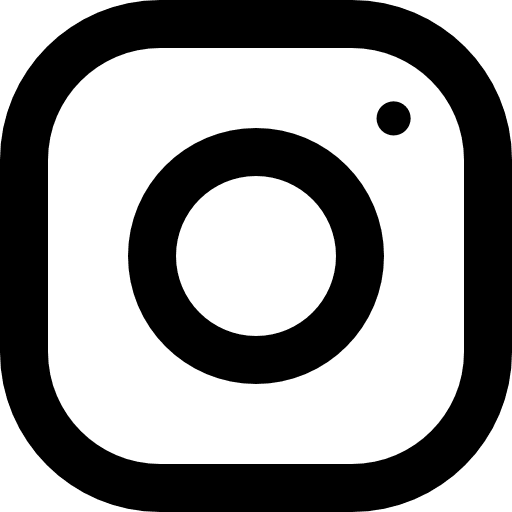
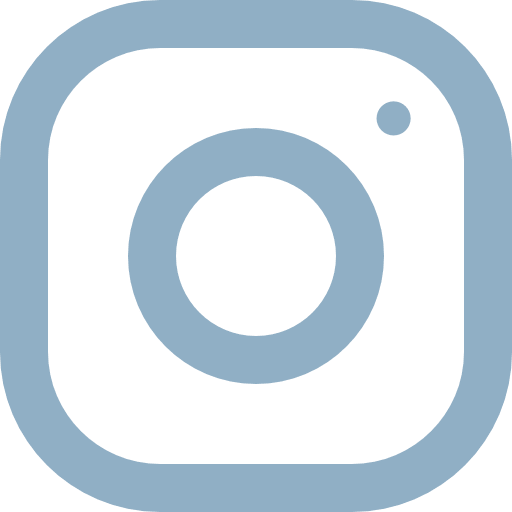
update

diff --git a/index.html b/index.html
@@ -1,15 +1,23 @@
 <!DOCTYPE html>
 
-<html lang='fr'>
+<html lang='fr' xmlns:og="http://ogp.me/ns#">
 
     <head>
         <meta charset="utf-8">
         <meta name="viewport" content="width=device-width, initial-scale=1">
 
-        <link rel="shortcut icon" type="image/png" href="images/.png"/>
+        <link rel="shortcut icon" type="image/png" href="images/start-up.png"/>
         <link rel="stylesheet" href="https://cdnjs.cloudflare.com/ajax/libs/font-awesome/4.7.0/css/font-awesome.min.css">
 
-        <title>Examen Blanc 4</title>
+        <title>Start-Up Nation</title>
+
+        <meta name="description" content="Start-Up Nation est un service en ligne qui met chaque semaine en avant les start-up innovantes dans le secteur du numérique." />
+        <meta property="og:title" content="Start-Up Nation" />
+        <meta property="og:type" content="site web" />
+        <meta property="og:url" content="https://start-up-nation.fr" />
+        <meta property="og:image" content="images/entrepreneur-1340649_1920.jpg" />
+        <meta property="og:site_name" content="Start-Up Nation" />
+
         <link rel="stylesheet" href="style.css">
     </head>
 
@@ -24,8 +32,6 @@
             </h1>
         </header>
 
-    <main class="container">
-
         
         <nav>
 
@@ -35,87 +41,95 @@
                 <a href="#contact">Internet des objets</a>
                 <a href="#about">Plateformes en ligne</a>
                 <a href="javascript:void(0);" class="icon" onclick="myFunction()">
-                  <i class="fa fa-bars"></i>
+                    <div class="bar1"></div>
+                    <div class="bar2"></div>
+                    <div class="bar3"></div>
                 </a>
                 <form>
                     <input type="text" placeholder="Rechercher">
                 </form>
             </div>
-
-
         </nav>
 
-        <div class="contenu">
+        <main class="container">
 
-            <div class="item">
-                <div class="image">
-                    <img src="images/jumbo.png" alt="image jumbo">
+            <div class="contenu">
+
+                <div class="item">
+                    <div class="image">
+                        <img src="images/jumbo.png" alt="image jumbo">
+                    </div>
+                    <div class="texte">
+                        <h2>Jumbo, l’application qui protège vos données personnelles de l’appétit des GAFA</h2>
+                        <p>Après avoir vendu une première start-up à Microsoft, le français Pierre Valade s’attaque depuis un an au marché de la confidentialité et la sécurité des données. Il vient de lever 8 millions de dollars auprès du fonds Balderton.</p>
+                        <div class="bookmark">
+                            <a class="bouton" href="https://www.lefigaro.fr/secteur/high-tech/start-up/jumbo-l-application-qui-protege-vos-donnees-personnelles-de-l-appetit-des-gafa-20200624" target="_blank">Lire la suite...</a>
+                            <img src="images/bookmark-contour.png" alt="icone bookmark" onclick="this.src='images/bookmark-plein.png';">
+                        </div>
+                    </div>
                 </div>
-                <div class="texte">
-                    <h2>Jumbo, l’application qui protège vos données personnelles de l’appétit des GAFA</h2>
-                    <p>Après avoir vendu une première start-up à Microsoft, le français Pierre Valade s’attaque depuis un an au marché de la confidentialité et la sécurité des données. Il vient de lever 8 millions de dollars auprès du fonds Balderton.</p>
-                    <a href="https://www.lefigaro.fr/secteur/high-tech/start-up/jumbo-l-application-qui-protege-vos-donnees-personnelles-de-l-appetit-des-gafa-20200624">Lire la suite...</a>
+                
+                <div class="item item-reverse">
+                    <div class="image">
+                        <img src="images/greenback.png" alt="image greenback">
+                    </div>
+                    <div class="texte">
+                        <h2>Le cofondateur de Devialet lance Greenback, une agence de notation des terres cultivées</h2>
+                        <p>Deux ans après avoir quitté le spécialiste de l’audio haut de gamme, Quentin Sannié lance une start-up dédiée à l’étude de l’état de santé des sols.</p>
+                        <div class="bookmark">
+                            <a class="bouton" href="https://www.lefigaro.fr/secteur/high-tech/start-up/le-cofondateur-de-devialet-lance-greenback-une-agence-de-notation-des-terres-cultivees-20200605" target="_blank">Lire la suite...</a>
+                            <img src="images/bookmark-contour.png" alt="icone bookmark" onclick="this.src='images/bookmark-plein.png';">
+                        </div>
+                    </div>
                 </div>
-            </div>
-            
-            <div class="item item-reverse">
-                <div class="image">
-                    <img src="images/greenback.png" alt="image greenback">
+                
+                <div class="item">
+                    <div class="image">
+                        <img src="images/geodata.png" alt="image geodata">
+                    </div>
+                    <div class="texte">
+                        <h2>Géodata scientist s’appuie sur les données pour mieux comprendre la ville</h2>
+                        <p>Sans contexte, les données de transport ne valent rien. C’est là qu’entrent en jeu les géodata scientists, comme Jean-Marc Favaro, cofondateur de la start-up Fluctuo. Cette société a conçu une interface de programmation (API) qui consulte toutes les 15 minutes les applications de vélos, scooters et trottinettes en libre-service. Elle en extrait des données brutes dont le géodata scientist va tirer des enseignements.</p>
+                        <a class="bouton" href="https://www.lefigaro.fr/secteur/high-tech/start-up/geodata-scientist-un-mathematicien-epris-de-geographie-20200224" target="_blank">Lire la suite...</a>
+                    </div>
                 </div>
-                <div class="texte">
-                    <h2>Le cofondateur de Devialet lance Greenback, une agence de notation des terres cultivées</h2>
-                    <p>Deux ans après avoir quitté le spécialiste de l’audio haut de gamme, Quentin Sannié lance une start-up dédiée à l’étude de l’état de santé des sols.</p>
-                    <a href="https://www.lefigaro.fr/secteur/high-tech/start-up/le-cofondateur-de-devialet-lance-greenback-une-agence-de-notation-des-terres-cultivees-20200605">Lire la suite...</a>
+
+                <div class="item item-reverse">
+                    <div class="image">
+                        <img src="images/triller.png" alt="image triller">
+                    </div>
+                    <div class="texte">
+                        <h2>Triller, la «petite» appli musicale qui vient concurrencer le géant chinois TikTok</h2>
+                        <p>L’application franco-américaine, qui a levé 28 millions de dollars en octobre, a récemment reçu le soutien d’artistes internationaux tels que The Weeknd ou Snoop Dogg.</p>
+                        <a class="bouton" href="https://www.lefigaro.fr/secteur/high-tech/start-up/triller-la-petite-appli-musicale-qui-vient-concurrencer-le-geant-chinois-tiktok-20200118" target="_blank">Lire la suite...</a>
+                    </div>
                 </div>
-            </div>
-            
-            <div class="item">
-                <div class="image">
-                    <img src="images/geodata.png" alt="image geodata">
+                
+                <div class="item">
+                    <div class="image">
+                        <img src="images/marbotic.png" alt="image marbotic">
+                    </div>
+                    <div class="texte">
+                        <h2>Marbotic, des jouets en bois pour apprendre sur iPad</h2>
+                        <p>CES 2020 - La start-up française a développé des méthodes d’apprentissage pour les 3-6 ans, remarquées par le pdg d’Apple. De simples pièces de bois posées sur une petite table et derrière des iPad. Toutefois, la particularité des pièces en bois de Marbotic est ... de ne pas être connectées. Elle permet une manipulation facile par de jeunes enfants, avec à la clef, des jeux éducatifs malins. </p>
+                        <a class="bouton" href="https://www.lefigaro.fr/secteur/high-tech/start-up/marbotic-des-jouets-en-bois-pour-apprendre-sur-ipad-20200110" target="_blank">Lire la suite...</a>
+                    </div>
                 </div>
-                <div class="texte">
-                    <h2>Géodata scientist s’appuie sur les données pour mieux comprendre la ville</h2>
-                    <p>Sans contexte, les données de transport ne valent rien. C’est là qu’entrent en jeu les géodata scientists, comme Jean-Marc Favaro, cofondateur de la start-up Fluctuo. Cette société a conçu une interface de programmation (API) qui consulte toutes les 15 minutes les applications de vélos, scooters et trottinettes en libre-service. Elle en extrait des données brutes dont le géodata scientist va tirer des enseignements.</p>
-                    <a href="https://www.lefigaro.fr/secteur/high-tech/start-up/geodata-scientist-un-mathematicien-epris-de-geographie-20200224">Lire la suite...</a>
-                </div>
+                
+                <div class="item item-reverse">
+                    <div class="image">
+                        <img src="images/constellation.png" alt="image constellation">
+                    </div>
+                    <div class="texte">
+                        <h2>La start-up californienne Cloud Constellation projette de stocker nos données en orbite</h2>
+                        <p>L’entreprise américaine Cloud Constellation prévoit d’envoyer dix satellites dans l’espace d’ici à 2021 pour un coût total estimé à 350 millions de dollars. Et si nos photos de vacances tournaient en orbite autour de la Terre? C’est l’idée insolite de la start-up américaine Cloud Constellation pour garantir la sécurité de nos données.</p>
+                        <a class="bouton" href="https://www.lefigaro.fr/secteur/high-tech/start-up/une-start-up-californienne-projette-de-stocker-nos-donnees-en-orbite-20190902">Lire la suite...</a>
+                    </div>
+                </div>        
+
             </div>
 
-            <div class="item item-reverse">
-                <div class="image">
-                    <img src="images/triller.png" alt="image triller">
-                </div>
-                <div class="texte">
-                    <h2>Triller, la «petite» appli musicale qui vient concurrencer le géant chinois TikTok</h2>
-                    <p>L’application franco-américaine, qui a levé 28 millions de dollars en octobre, a récemment reçu le soutien d’artistes internationaux tels que The Weeknd ou Snoop Dogg.</p>
-                    <a href="https://www.lefigaro.fr/secteur/high-tech/start-up/triller-la-petite-appli-musicale-qui-vient-concurrencer-le-geant-chinois-tiktok-20200118">Lire la suite...</a>
-                </div>
-            </div>
-            
-            <div class="item">
-                <div class="image">
-                    <img src="images/marbotic.png" alt="image marbotic">
-                </div>
-                <div class="texte">
-                    <h2>Marbotic, des jouets en bois pour apprendre sur iPad</h2>
-                    <p>CES 2020 - La start-up française a développé des méthodes d’apprentissage pour les 3-6 ans, remarquées par le pdg d’Apple. De simples pièces de bois posées sur une petite table et derrière des iPad. Toutefois, la particularité des pièces en bois de Marbotic est ... de ne pas être connectées. Elle permet une manipulation facile par de jeunes enfants, avec à la clef, des jeux éducatifs malins. </p>
-                    <a href="https://www.lefigaro.fr/secteur/high-tech/start-up/marbotic-des-jouets-en-bois-pour-apprendre-sur-ipad-20200110">Lire la suite...</a>
-                </div>
-            </div>
-            
-            <div class="item item-reverse">
-                <div class="image">
-                    <img src="images/constellation.png" alt="image constellation">
-                </div>
-                <div class="texte">
-                    <h2>La start-up californienne Cloud Constellation projette de stocker nos données en orbite</h2>
-                    <p>L’entreprise américaine Cloud Constellation prévoit d’envoyer dix satellites dans l’espace d’ici à 2021 pour un coût total estimé à 350 millions de dollars. Et si nos photos de vacances tournaient en orbite autour de la Terre? C’est l’idée insolite de la start-up américaine Cloud Constellation pour garantir la sécurité de nos données.</p>
-                    <a href="https://www.lefigaro.fr/secteur/high-tech/start-up/une-start-up-californienne-projette-de-stocker-nos-donnees-en-orbite-20190902">Lire la suite...</a>
-                </div>
-            </div>        
-
-        </div>
-
-    </main>
+        </main>
         
         <footer>
             <div class="container footer-texte">
@@ -123,9 +137,9 @@
                 <span>Source des textes : lefigaro.fr</span>
             </div>
             <div class="icones"> 
-                <img src="images/instagram.png ">
-                <img src="images/linkedin.png ">
-                <img src="images/twitter.png ">
+                <img src="images/instagram.png " alt="icone instagram">
+                <img src="images/linkedin.png " alt="icone linkedin">
+                <img src="images/twitter.png " alt="icone twitter">
             </div>
         </footer>
 

diff --git a/style.css b/style.css
@@ -204,9 +204,22 @@ h1 {
 }
 
 /* NAVBAR */
+nav {
+    border-bottom: 2px solid black;
+    margin-bottom: 2rem;
+}
+.bar1, .bar2, .bar3 {
+    width: 45px;
+    height: 5px;
+    background-color: #90afc5;
+    margin: 6px 0;
+    border-radius: 2px;
+}
 .topnav {
     overflow: hidden;
-    /* background-color: #333; */
+    display: flex;
+    align-items: center;
+    justify-content: space-around;
 }
 
 .topnav a {
@@ -228,11 +241,11 @@ h1 {
     display: block;
 }
 /* @media screen and (max-width: 600px) { */
-    .topnav a:not(:first-child) {
+    .topnav a {
         display: none;
     }
     .topnav a.icon {
-      float: right;
+      float: left;
       display: block;
     }
 /* } */
@@ -240,10 +253,12 @@ h1 {
 /* @media screen and (max-width: 600px) { */
     .topnav.responsive {
         position: relative;
+        margin-bottom: 2rem;
+        display: block;
     }
     .topnav.responsive .icon {
       position: absolute;
-      right: 0;
+      left: 21%;
       top: 0;
     }
     .topnav.responsive a {
@@ -255,6 +270,18 @@ h1 {
         text-align: center;
     }
 /* } */
+
+input {
+    background-color: #90afc5;
+    border: none;
+    border-radius: 0px;
+    padding: 0.5rem;
+}
+input::placeholder {
+    color: white;
+    text-transform: uppercase;
+    text-align: center;
+}
 
 /* CONTENU */
 .contenu {
@@ -283,7 +310,7 @@ h1 {
 .item p {
     display: none;
 }
-.item a {
+.item .bouton {
     text-decoration: none;
     color: white;
     background-color: #336a88;
@@ -293,13 +320,48 @@ h1 {
     padding-right: 2rem;
     padding-left: 2rem;
 }
+.bookmark {
+    display: flex;
+    align-items: center;
+    justify-content: space-between;
+}
+.bookmark img {
+    width: 30px;
+}
 
+
+/* FOOTER */
+footer {
+    display: flex;
+    flex-direction: column-reverse;
+}
+footer .icones {
+    display: flex;
+    justify-content: center;
+    border-bottom: 2px solid black;
+}
+footer .icones img{
+    width: 50px;
+    padding: 2rem;
+}
+.footer-texte {
+    padding-top: 2rem;
+    padding-bottom: 2rem;
+    display: flex;
+    justify-content: space-between;
+}
+
+/* MEDIA QUERIES */
 @media screen and (max-width: 480px){
     .container {
         width: 90%;
     }
     h1 {
         font-size: 3em;
+    }
+    .topnav.responsive .icon {
+        position: absolute;
+        left: 10%;
     }
     .contenu {
         display: block;
@@ -324,31 +386,6 @@ h1 {
         padding-left: 0;
         padding-right: 1rem;
     }
-    
-}
-
-/* FOOTER */
-footer {
-    display: flex;
-    flex-direction: column-reverse;
-}
-footer .icones {
-    display: flex;
-    justify-content: center;
-    border-bottom: 2px solid black;
-}
-footer .icones img{
-    width: 50px;
-    padding: 2rem;
-}
-.footer-texte {
-    padding-top: 2rem;
-    padding-bottom: 2rem;
-    display: flex;
-    justify-content: space-between;
-}
-
-@media screen and (max-width: 480px){
     footer {
         flex-direction: row;
         justify-content: space-around;
@@ -371,4 +408,5 @@ footer .icones img{
         height: 3em;
         padding: 0.2rem;
     }
+    
 }

diff --git a/main.js b/main.js
@@ -5,4 +5,5 @@ function myFunction() {
     } else {
       x.className = "topnav";
     }
-  }
+}
+
